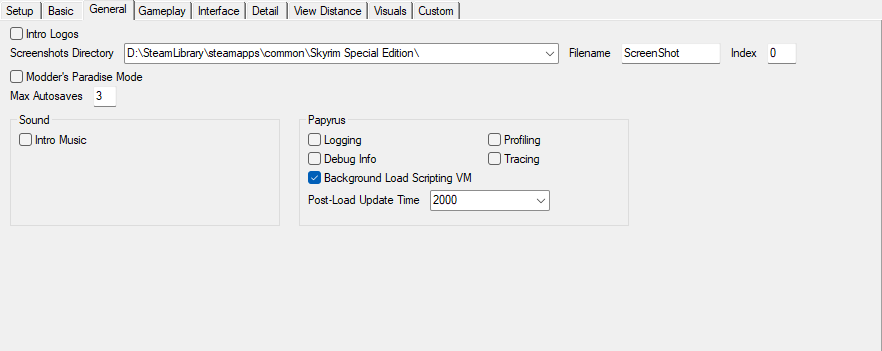
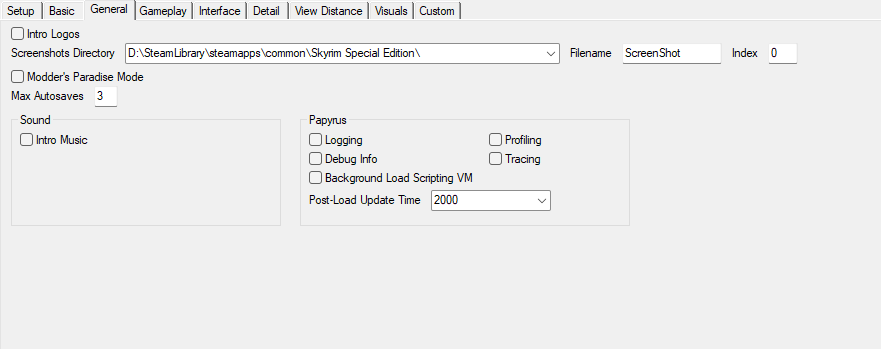
Update CHANGELOG.md and assets/bethini

diff --git a/CHANGELOG.md b/CHANGELOG.md
@@ -1,3 +1,23 @@
+# v1.0.9
+
+- UPDATE SIZE: LARGE
+- Add Ryn's Dragon Mounds Collection
+- Add Skyrim Landscape and Water Fixes
+- Add Caveworm Plant Retexture
+- Add Simpler Dragon Targeting - True Directional Movement
+- Add Curated Bosses for TrueHUD
+- Update QuickLoot EE
+- Update Katana Crafting
+- Update Simple Snow Improvements - Snow Forts
+- Update Simple Snow Improvements - Giant Obelisks
+- Update Simple Snow Improvements - Skyrim
+- Update QuickLoot EE - Settings Loader
+- Update WeldingMans Enchanting Table Variants with ENB Light
+- Update DynDOLOD
+- Update TexGen Output
+- Update DynDOLOD Output
+- Tweak BethINI config
+
 # v1.0.8
 
 - UPDATE SIZE: SMALL
